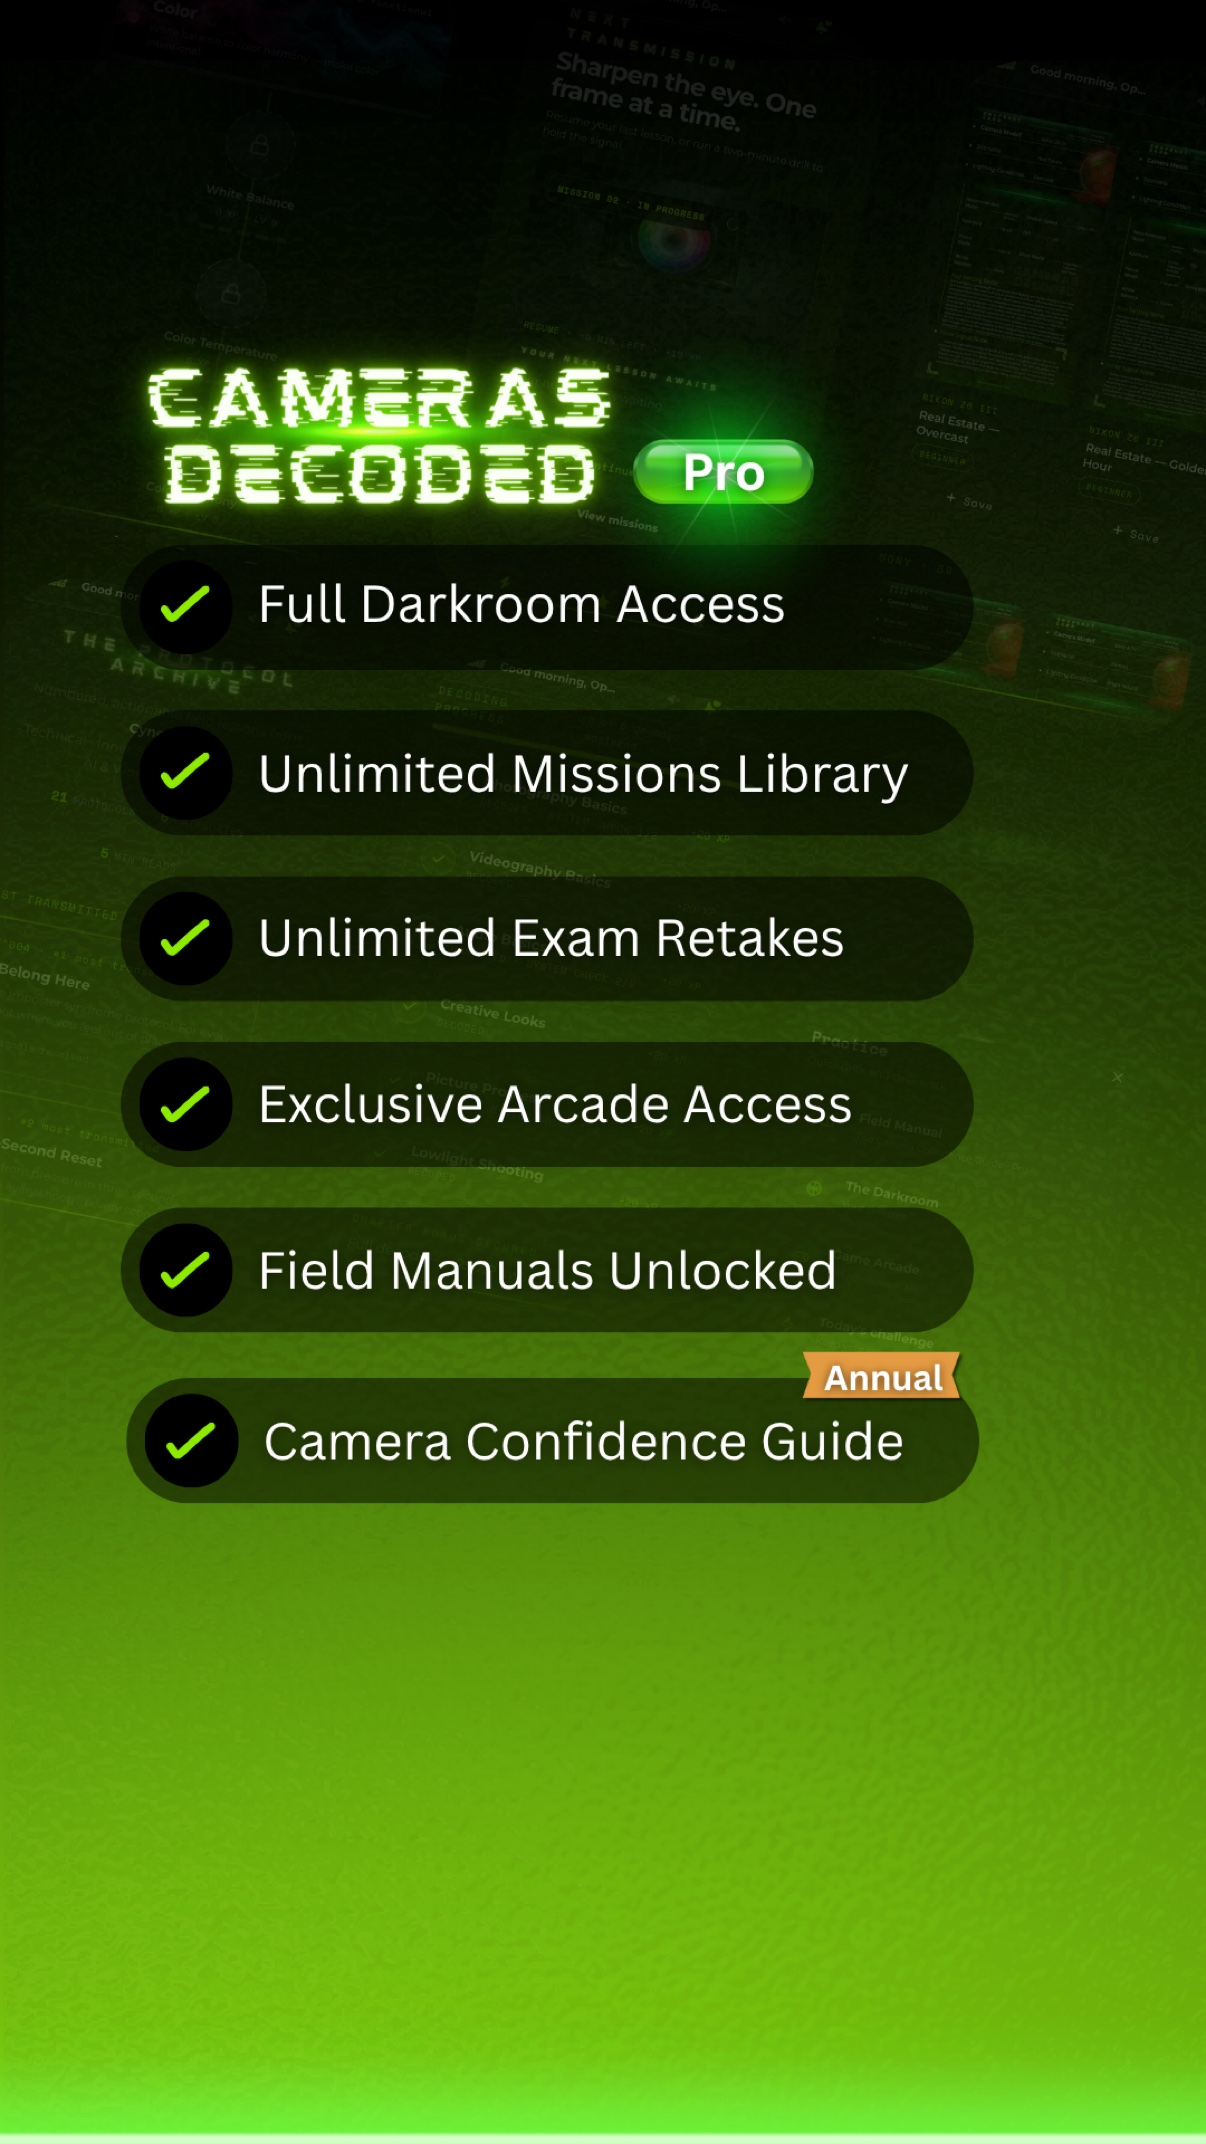
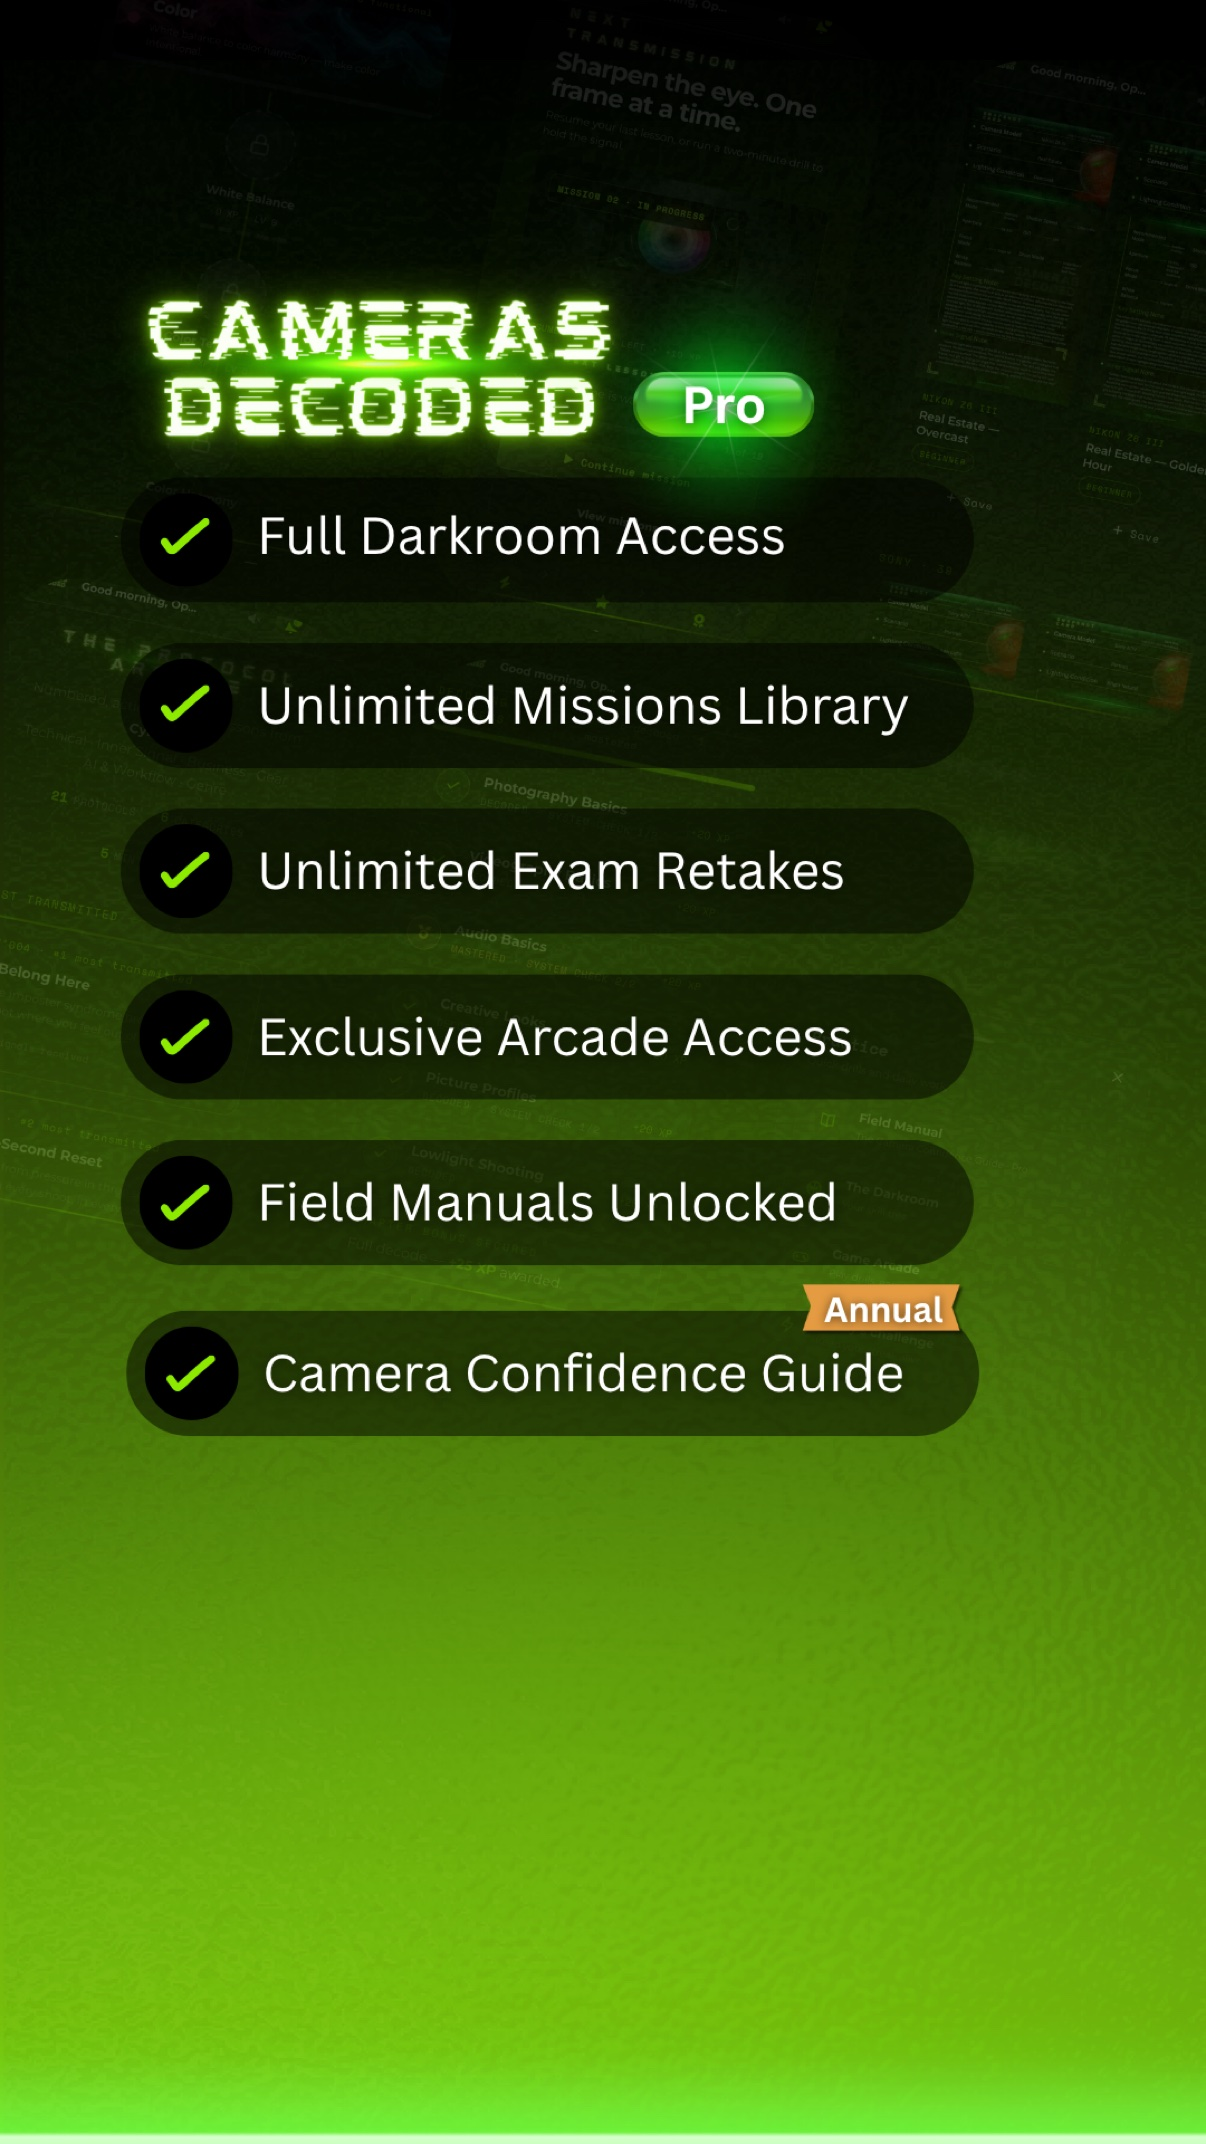
Swap in revised paywall title art (elements moved up); version chain bump

Changed region(s): [[0.092, 0.125, 0.8284, 0.7188]]

diff --git a/about.html b/about.html
@@ -14,7 +14,7 @@
   <link href="https://fonts.googleapis.com/css2?family=Space+Mono:wght@400;700&family=Montserrat:wght@400;600;700;800&display=swap" rel="stylesheet">
   <link rel="stylesheet" href="https://cdnjs.cloudflare.com/ajax/libs/font-awesome/6.4.0/css/all.min.css">
 
-  <script src="/scripts/master-loader.js?v=20260926a"></script>
+  <script src="/scripts/master-loader.js?v=20260926b"></script>
   <script src="/header.js?v=20260925a"></script>
   <script src="/scripts/desktop-sidebar.js"></script>
   <!-- bottom-nav.js is loaded by master-loader - do not load it again -->

diff --git a/founding-200.html b/founding-200.html
@@ -14,7 +14,7 @@
   <link href="https://fonts.googleapis.com/css2?family=Space+Mono:wght@400;700&family=Montserrat:wght@400;600;700;800&display=swap" rel="stylesheet">
   <link rel="stylesheet" href="https://cdnjs.cloudflare.com/ajax/libs/font-awesome/6.4.0/css/all.min.css">
 
-  <script src="/scripts/master-loader.js?v=20260926a"></script>
+  <script src="/scripts/master-loader.js?v=20260926b"></script>
   <script src="/header.js?v=20260925a"></script>
   <script src="/scripts/desktop-sidebar.js"></script>
   <!-- bottom-nav.js is loaded by master-loader - do not load it again -->

diff --git a/inner-signal.html b/inner-signal.html
@@ -14,7 +14,7 @@
   <link href="https://fonts.googleapis.com/css2?family=Space+Mono:wght@400;700&family=Montserrat:wght@400;600;700;800&display=swap" rel="stylesheet">
   <link rel="stylesheet" href="https://cdnjs.cloudflare.com/ajax/libs/font-awesome/6.4.0/css/all.min.css">
 
-  <script src="/scripts/master-loader.js?v=20260926a"></script>
+  <script src="/scripts/master-loader.js?v=20260926b"></script>
   <script src="/header.js?v=20260925a"></script>
   <script src="/scripts/desktop-sidebar.js"></script>
   <!-- bottom-nav.js is loaded by master-loader - do not load it again -->

diff --git a/podcast.html b/podcast.html
@@ -14,7 +14,7 @@
   <link href="https://fonts.googleapis.com/css2?family=Space+Mono:wght@400;700&family=Montserrat:wght@400;600;700;800&display=swap" rel="stylesheet">
   <link rel="stylesheet" href="https://cdnjs.cloudflare.com/ajax/libs/font-awesome/6.4.0/css/all.min.css">
 
-  <script src="/scripts/master-loader.js?v=20260926a"></script>
+  <script src="/scripts/master-loader.js?v=20260926b"></script>
   <script src="/header.js?v=20260925a"></script>
   <script src="/scripts/desktop-sidebar.js"></script>
   <!-- bottom-nav.js is loaded by master-loader - do not load it again -->

diff --git a/protocol-001.html b/protocol-001.html
@@ -25,7 +25,7 @@
 </script>
 <link href="https://fonts.googleapis.com/css2?family=Space+Mono:wght@400;700&family=Montserrat:wght@400;600;700;800&display=swap" rel="stylesheet">
 <link rel="stylesheet" href="https://cdnjs.cloudflare.com/ajax/libs/font-awesome/6.4.0/css/all.min.css">
-<script src="/scripts/master-loader.js?v=20260926a"></script>
+<script src="/scripts/master-loader.js?v=20260926b"></script>
 <script src="/header.js?v=20260925a"></script>
 <script src="/scripts/desktop-sidebar.js"></script>
 <!-- bottom-nav.js is loaded by master-loader - do not load it again -->

diff --git a/protocol-002.html b/protocol-002.html
@@ -25,7 +25,7 @@
 </script>
 <link href="https://fonts.googleapis.com/css2?family=Space+Mono:wght@400;700&family=Montserrat:wght@400;600;700;800&display=swap" rel="stylesheet">
 <link rel="stylesheet" href="https://cdnjs.cloudflare.com/ajax/libs/font-awesome/6.4.0/css/all.min.css">
-<script src="/scripts/master-loader.js?v=20260926a"></script>
+<script src="/scripts/master-loader.js?v=20260926b"></script>
 <script src="/header.js?v=20260925a"></script>
 <script src="/scripts/desktop-sidebar.js"></script>
 <!-- bottom-nav.js is loaded by master-loader - do not load it again -->

diff --git a/protocol-003.html b/protocol-003.html
@@ -25,7 +25,7 @@
 </script>
 <link href="https://fonts.googleapis.com/css2?family=Space+Mono:wght@400;700&family=Montserrat:wght@400;600;700;800&display=swap" rel="stylesheet">
 <link rel="stylesheet" href="https://cdnjs.cloudflare.com/ajax/libs/font-awesome/6.4.0/css/all.min.css">
-<script src="/scripts/master-loader.js?v=20260926a"></script>
+<script src="/scripts/master-loader.js?v=20260926b"></script>
 <script src="/header.js?v=20260925a"></script>
 <script src="/scripts/desktop-sidebar.js"></script>
 <!-- bottom-nav.js is loaded by master-loader - do not load it again -->

diff --git a/protocol-004.html b/protocol-004.html
@@ -25,7 +25,7 @@
 </script>
 <link href="https://fonts.googleapis.com/css2?family=Space+Mono:wght@400;700&family=Montserrat:wght@400;600;700;800&display=swap" rel="stylesheet">
 <link rel="stylesheet" href="https://cdnjs.cloudflare.com/ajax/libs/font-awesome/6.4.0/css/all.min.css">
-<script src="/scripts/master-loader.js?v=20260926a"></script>
+<script src="/scripts/master-loader.js?v=20260926b"></script>
 <script src="/header.js?v=20260925a"></script>
 <script src="/scripts/desktop-sidebar.js"></script>
 <!-- bottom-nav.js is loaded by master-loader - do not load it again -->

diff --git a/protocol-005.html b/protocol-005.html
@@ -25,7 +25,7 @@
 </script>
 <link href="https://fonts.googleapis.com/css2?family=Space+Mono:wght@400;700&family=Montserrat:wght@400;600;700;800&display=swap" rel="stylesheet">
 <link rel="stylesheet" href="https://cdnjs.cloudflare.com/ajax/libs/font-awesome/6.4.0/css/all.min.css">
-<script src="/scripts/master-loader.js?v=20260926a"></script>
+<script src="/scripts/master-loader.js?v=20260926b"></script>
 <script src="/header.js?v=20260925a"></script>
 <script src="/scripts/desktop-sidebar.js"></script>
 <!-- bottom-nav.js is loaded by master-loader - do not load it again -->

diff --git a/protocol-006.html b/protocol-006.html
@@ -25,7 +25,7 @@
 </script>
 <link href="https://fonts.googleapis.com/css2?family=Space+Mono:wght@400;700&family=Montserrat:wght@400;600;700;800&display=swap" rel="stylesheet">
 <link rel="stylesheet" href="https://cdnjs.cloudflare.com/ajax/libs/font-awesome/6.4.0/css/all.min.css">
-<script src="/scripts/master-loader.js?v=20260926a"></script>
+<script src="/scripts/master-loader.js?v=20260926b"></script>
 <script src="/header.js?v=20260925a"></script>
 <script src="/scripts/desktop-sidebar.js"></script>
 <!-- bottom-nav.js is loaded by master-loader - do not load it again -->

diff --git a/protocol-007.html b/protocol-007.html
@@ -25,7 +25,7 @@
 </script>
 <link href="https://fonts.googleapis.com/css2?family=Space+Mono:wght@400;700&family=Montserrat:wght@400;600;700;800&display=swap" rel="stylesheet">
 <link rel="stylesheet" href="https://cdnjs.cloudflare.com/ajax/libs/font-awesome/6.4.0/css/all.min.css">
-<script src="/scripts/master-loader.js?v=20260926a"></script>
+<script src="/scripts/master-loader.js?v=20260926b"></script>
 <script src="/header.js?v=20260925a"></script>
 <script src="/scripts/desktop-sidebar.js"></script>
 <!-- bottom-nav.js is loaded by master-loader - do not load it again -->

diff --git a/protocol-008.html b/protocol-008.html
@@ -25,7 +25,7 @@
 </script>
 <link href="https://fonts.googleapis.com/css2?family=Space+Mono:wght@400;700&family=Montserrat:wght@400;600;700;800&display=swap" rel="stylesheet">
 <link rel="stylesheet" href="https://cdnjs.cloudflare.com/ajax/libs/font-awesome/6.4.0/css/all.min.css">
-<script src="/scripts/master-loader.js?v=20260926a"></script>
+<script src="/scripts/master-loader.js?v=20260926b"></script>
 <script src="/header.js?v=20260925a"></script>
 <script src="/scripts/desktop-sidebar.js"></script>
 <!-- bottom-nav.js is loaded by master-loader - do not load it again -->
